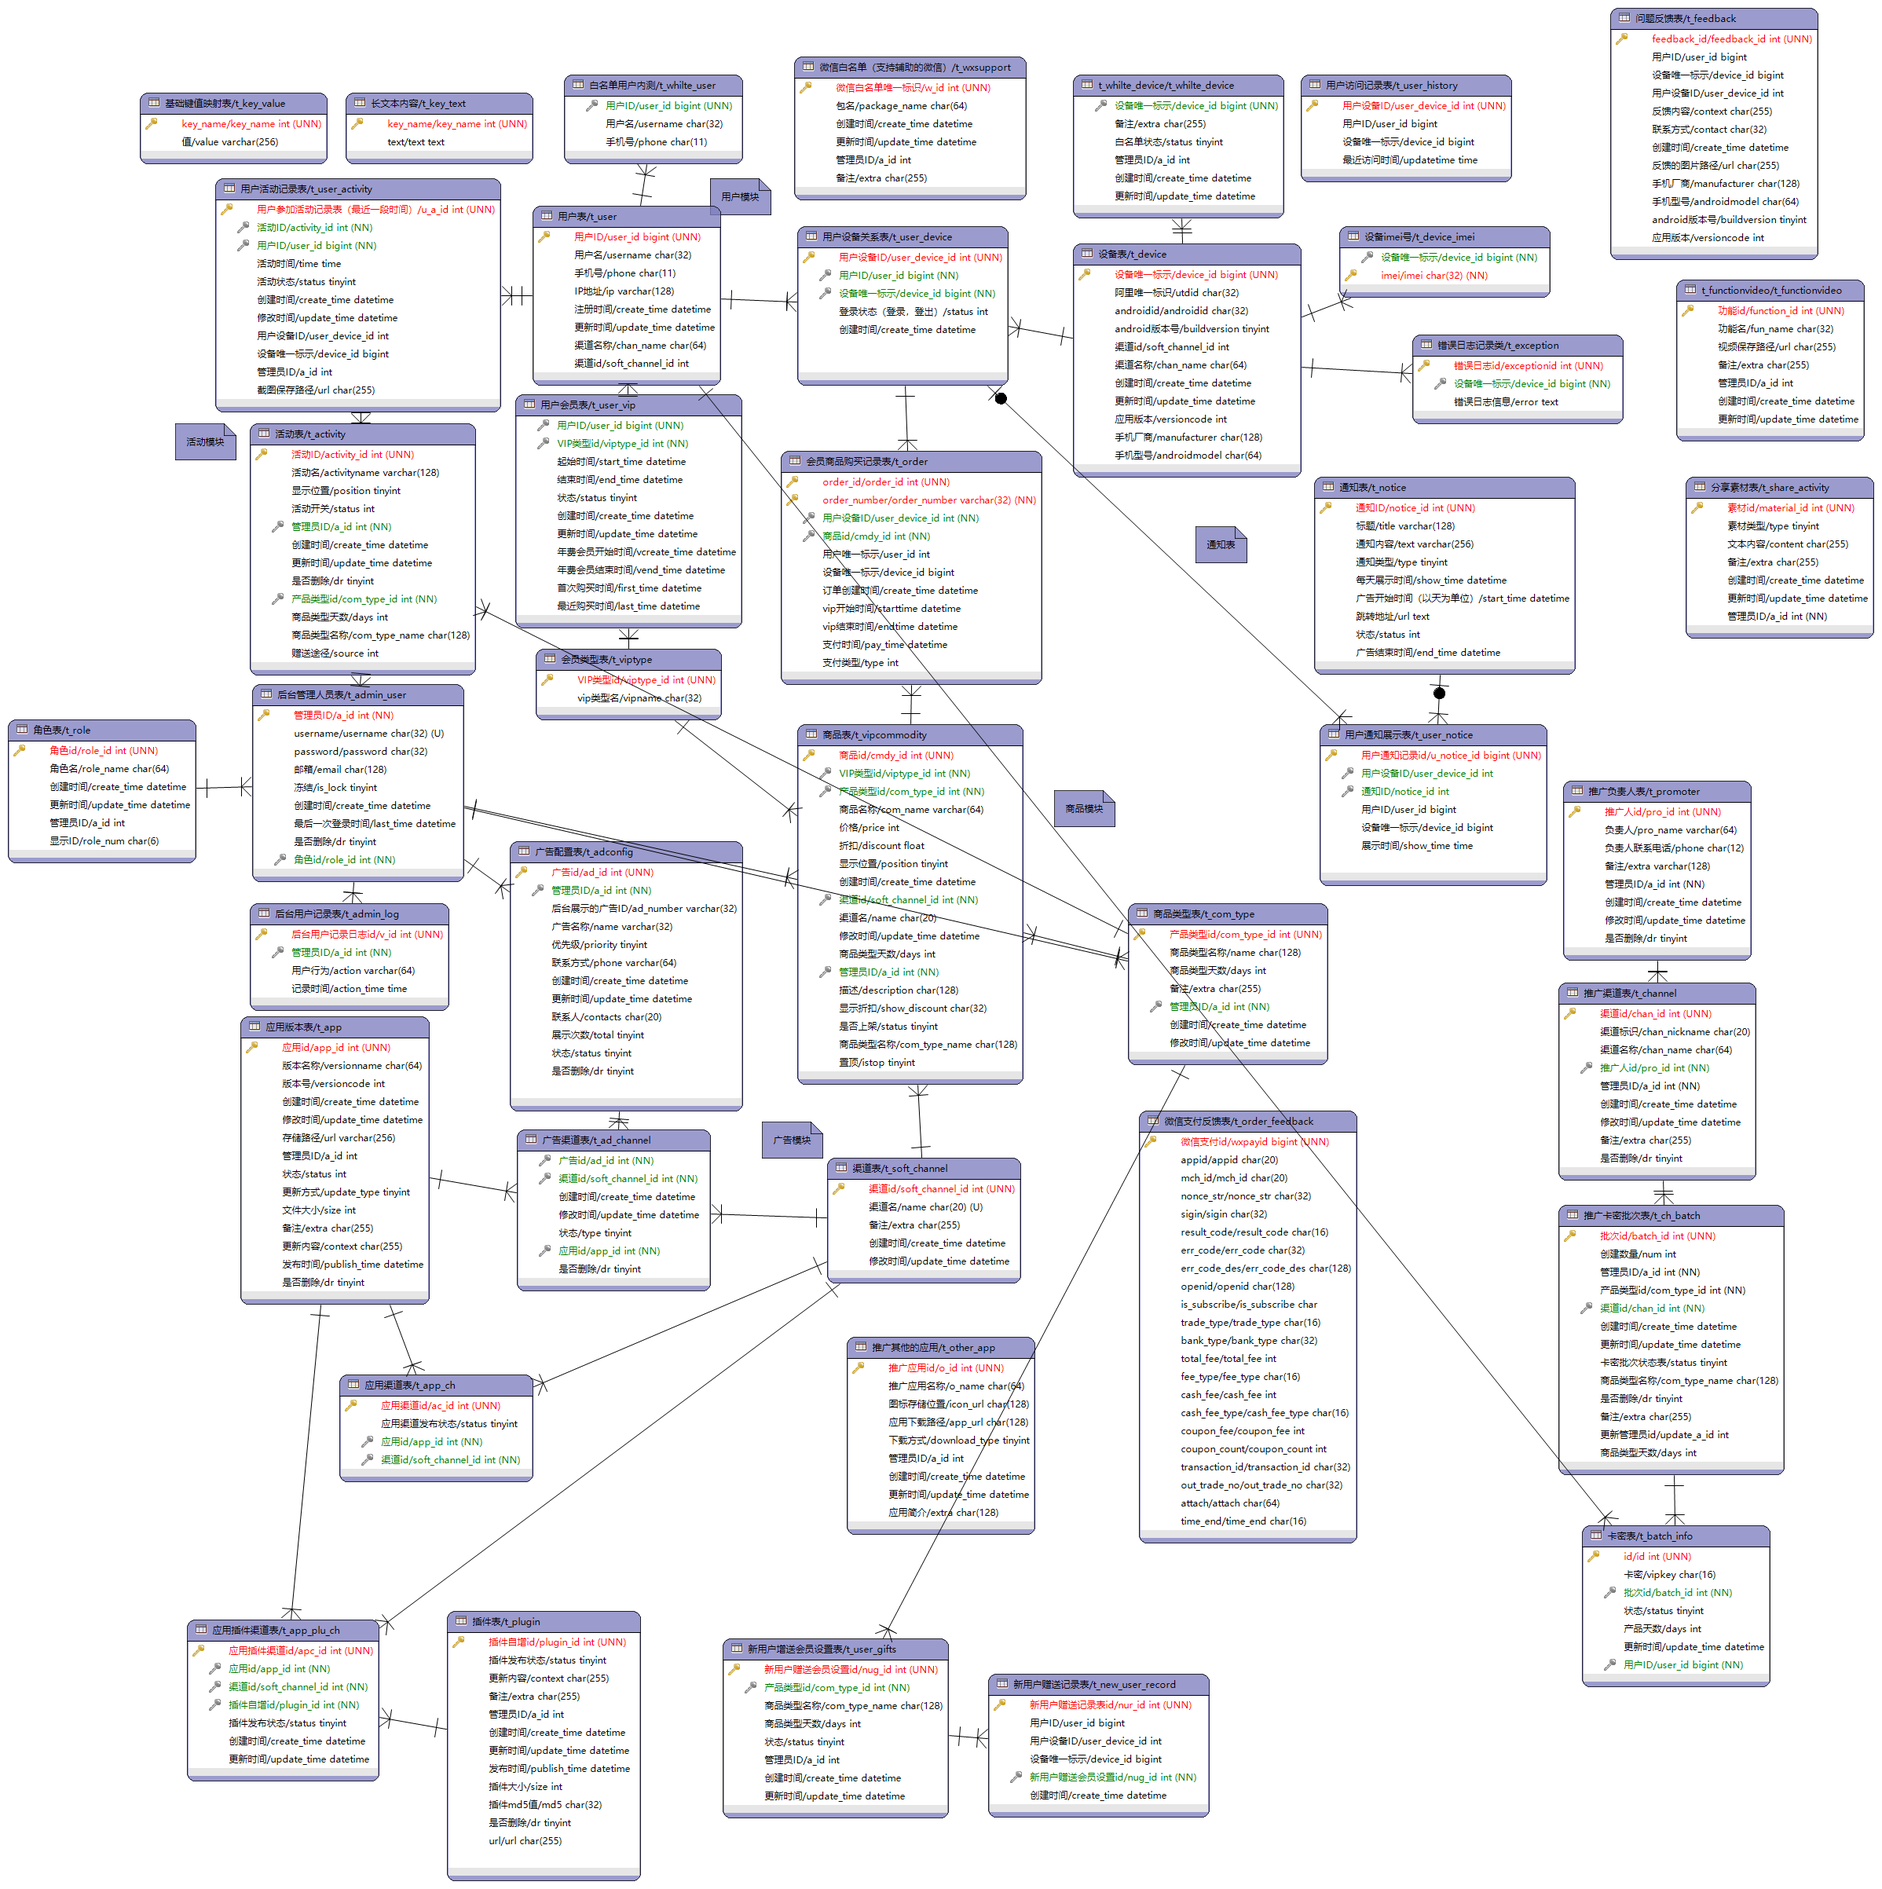
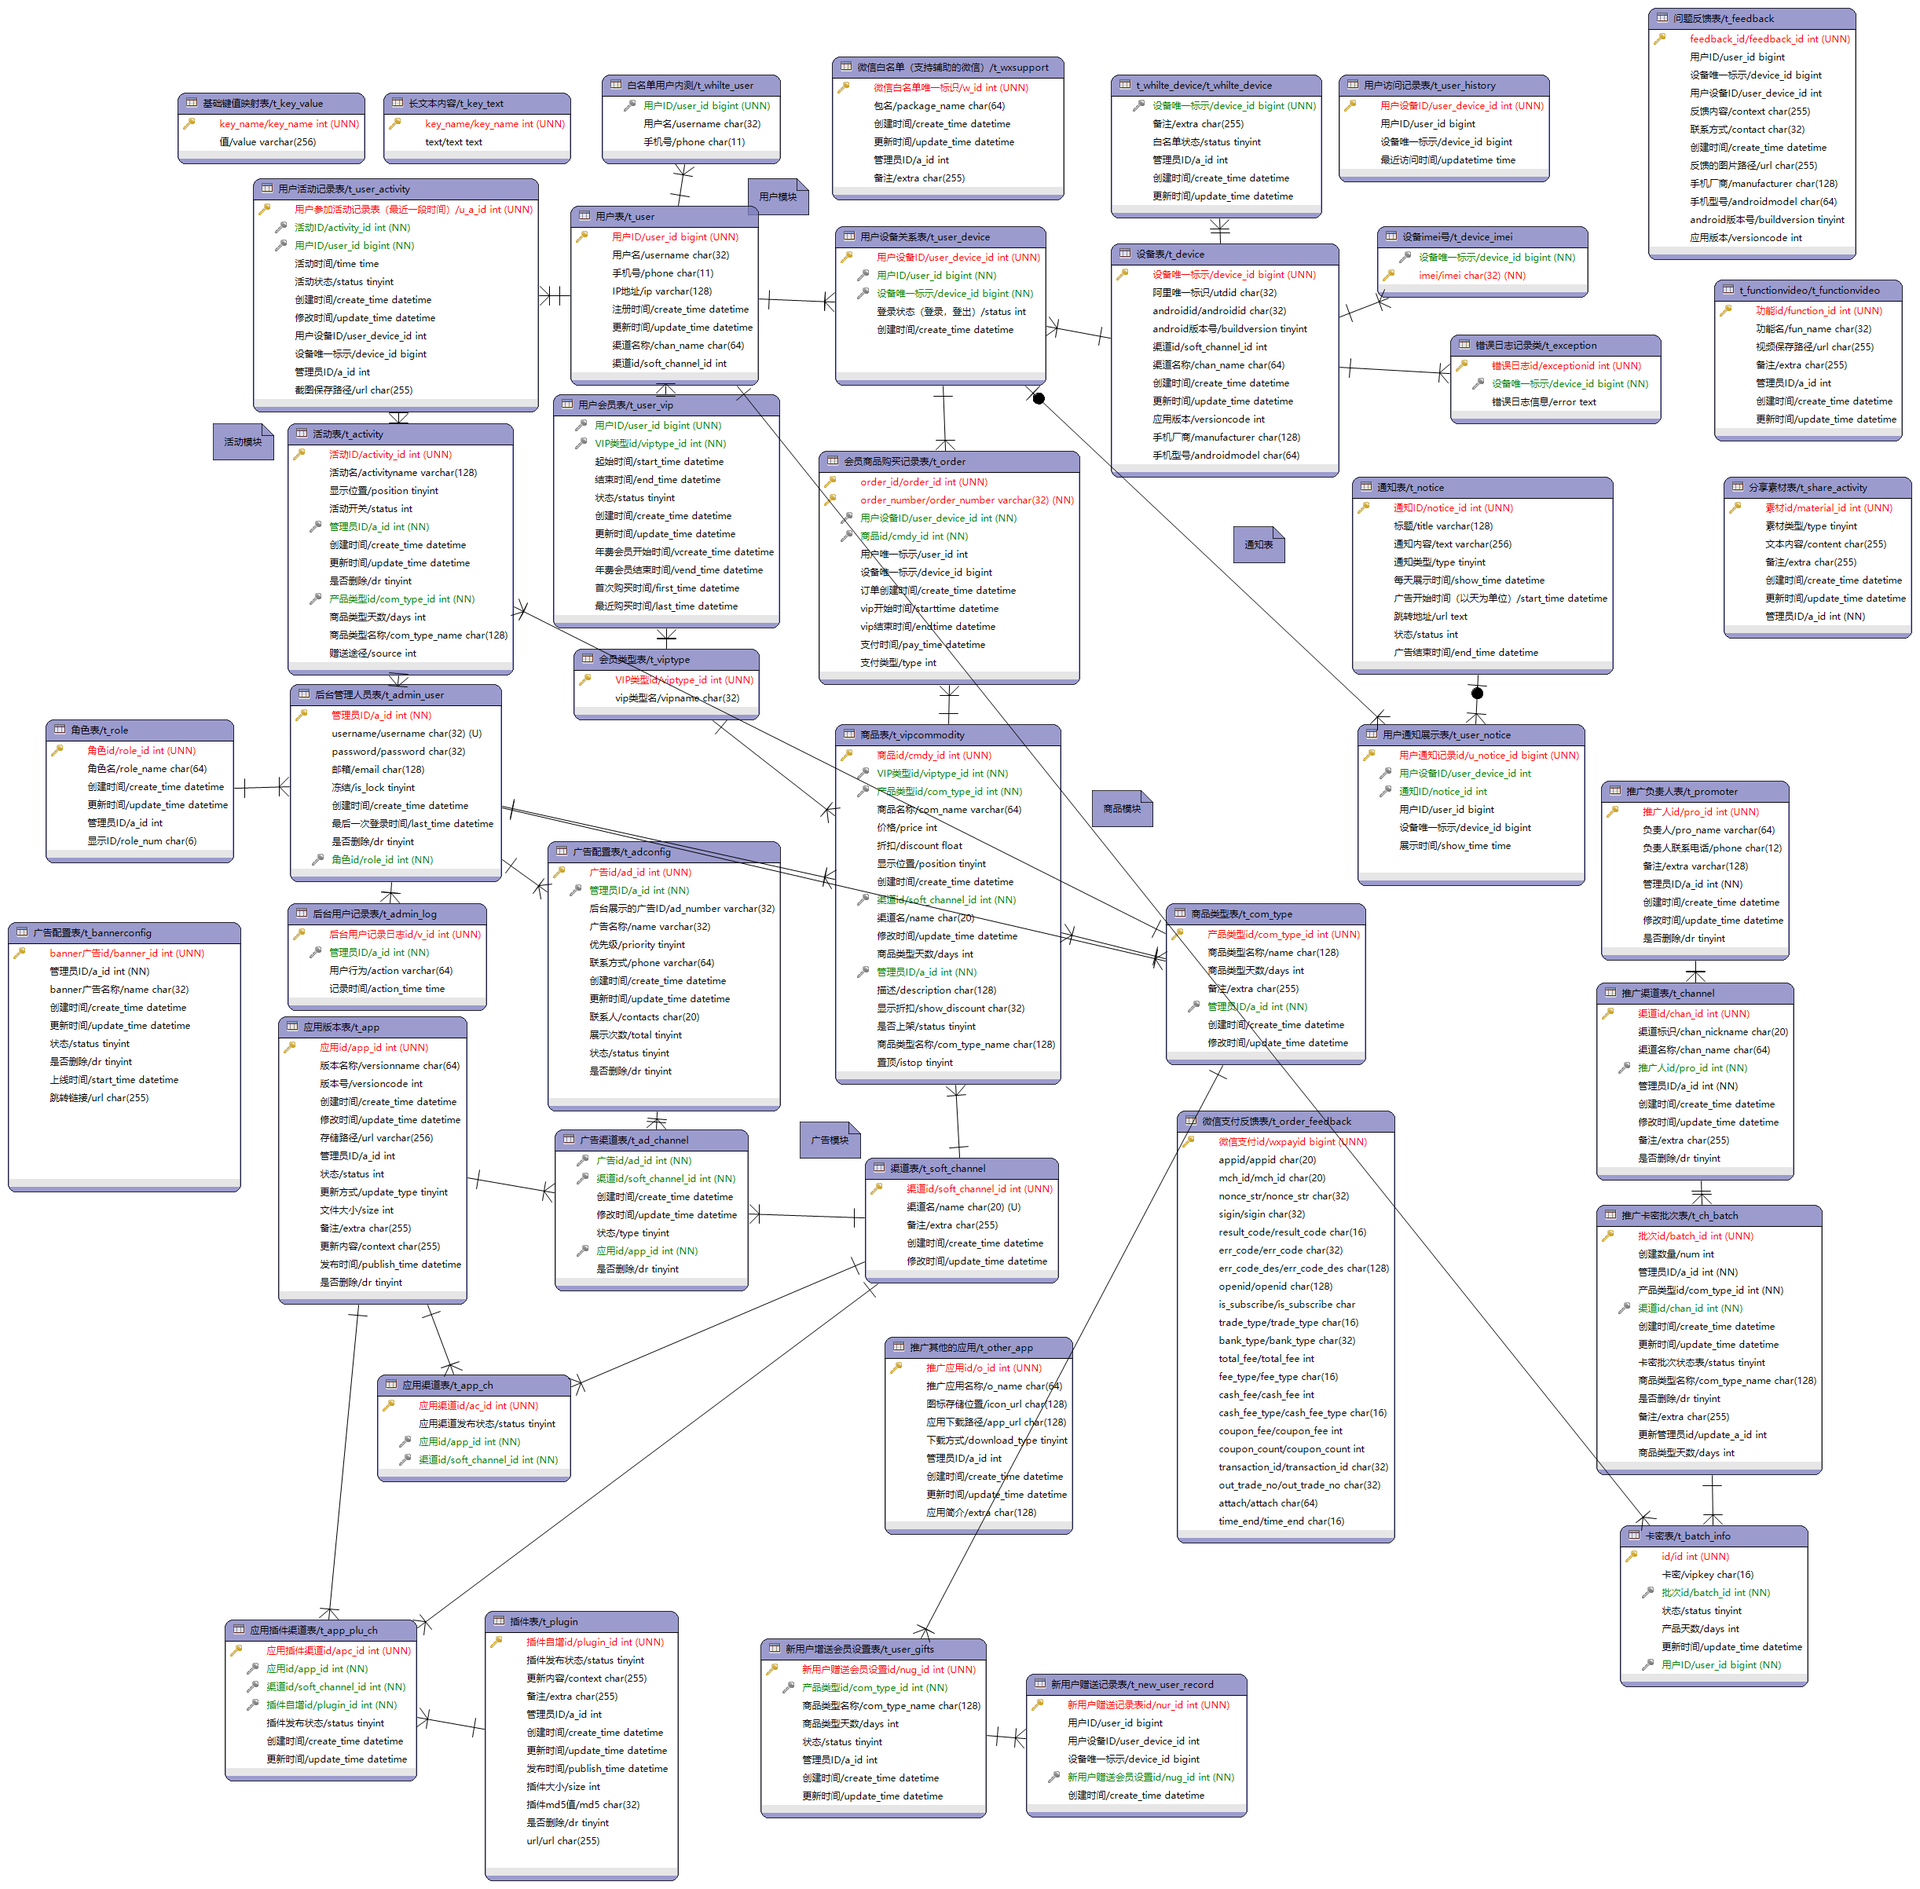
add t_bannner

diff --git a/smartweb/src/main/java/com/rpa/web/pojo/BannerConfig.java b/smartweb/src/main/java/com/rpa/web/pojo/BannerConfig.java
@@ -1,0 +1,167 @@
+package com.rpa.web.pojo;
+
+import java.io.Serializable;
+import java.util.Date;
+
+/**
+ * t_bannerconfig
+ * @author 
+ */
+public class BannerConfig implements Serializable {
+    private Integer bannerId;
+
+    private Integer aId;
+
+    private String name;
+
+    private Date createTime;
+
+    private Date updateTime;
+
+    /**
+     * 1关闭 2开启 3 删除
+     */
+    private Byte status;
+
+    /**
+     * 1 未删除  2删除
+     */
+    private Byte dr;
+
+    private Date startTime;
+
+    private String url;
+
+    private static final long serialVersionUID = 1L;
+
+    public Integer getBannerId() {
+        return bannerId;
+    }
+
+    public void setBannerId(Integer bannerId) {
+        this.bannerId = bannerId;
+    }
+
+    public Integer getaId() {
+        return aId;
+    }
+
+    public void setaId(Integer aId) {
+        this.aId = aId;
+    }
+
+    public String getName() {
+        return name;
+    }
+
+    public void setName(String name) {
+        this.name = name;
+    }
+
+    public Date getCreateTime() {
+        return createTime;
+    }
+
+    public void setCreateTime(Date createTime) {
+        this.createTime = createTime;
+    }
+
+    public Date getUpdateTime() {
+        return updateTime;
+    }
+
+    public void setUpdateTime(Date updateTime) {
+        this.updateTime = updateTime;
+    }
+
+    public Byte getStatus() {
+        return status;
+    }
+
+    public void setStatus(Byte status) {
+        this.status = status;
+    }
+
+    public Byte getDr() {
+        return dr;
+    }
+
+    public void setDr(Byte dr) {
+        this.dr = dr;
+    }
+
+    public Date getStartTime() {
+        return startTime;
+    }
+
+    public void setStartTime(Date startTime) {
+        this.startTime = startTime;
+    }
+
+    public String getUrl() {
+        return url;
+    }
+
+    public void setUrl(String url) {
+        this.url = url;
+    }
+
+    @Override
+    public boolean equals(Object that) {
+        if (this == that) {
+            return true;
+        }
+        if (that == null) {
+            return false;
+        }
+        if (getClass() != that.getClass()) {
+            return false;
+        }
+        BannerConfig other = (BannerConfig) that;
+        return (this.getBannerId() == null ? other.getBannerId() == null : this.getBannerId().equals(other.getBannerId()))
+            && (this.getaId() == null ? other.getaId() == null : this.getaId().equals(other.getaId()))
+            && (this.getName() == null ? other.getName() == null : this.getName().equals(other.getName()))
+            && (this.getCreateTime() == null ? other.getCreateTime() == null : this.getCreateTime().equals(other.getCreateTime()))
+            && (this.getUpdateTime() == null ? other.getUpdateTime() == null : this.getUpdateTime().equals(other.getUpdateTime()))
+            && (this.getStatus() == null ? other.getStatus() == null : this.getStatus().equals(other.getStatus()))
+            && (this.getDr() == null ? other.getDr() == null : this.getDr().equals(other.getDr()))
+            && (this.getStartTime() == null ? other.getStartTime() == null : this.getStartTime().equals(other.getStartTime()))
+            && (this.getUrl() == null ? other.getUrl() == null : this.getUrl().equals(other.getUrl()));
+    }
+
+    @Override
+    public int hashCode() {
+        final int prime = 31;
+        int result = 1;
+        result = prime * result + ((getBannerId() == null) ? 0 : getBannerId().hashCode());
+        result = prime * result + ((getaId() == null) ? 0 : getaId().hashCode());
+        result = prime * result + ((getName() == null) ? 0 : getName().hashCode());
+        result = prime * result + ((getCreateTime() == null) ? 0 : getCreateTime().hashCode());
+        result = prime * result + ((getUpdateTime() == null) ? 0 : getUpdateTime().hashCode());
+        result = prime * result + ((getStatus() == null) ? 0 : getStatus().hashCode());
+        result = prime * result + ((getDr() == null) ? 0 : getDr().hashCode());
+        result = prime * result + ((getStartTime() == null) ? 0 : getStartTime().hashCode());
+        result = prime * result + ((getUrl() == null) ? 0 : getUrl().hashCode());
+        return result;
+    }
+
+    @Override
+    public String toString() {
+        StringBuilder sb = new StringBuilder();
+        sb.append(getClass().getSimpleName());
+        sb.append(" [");
+        sb.append("Hash = ").append(hashCode());
+        sb.append(", bannerId=").append(bannerId);
+        sb.append(", aId=").append(aId);
+        sb.append(", name=").append(name);
+        sb.append(", createTime=").append(createTime);
+        sb.append(", updateTime=").append(updateTime);
+        sb.append(", status=").append(status);
+        sb.append(", dr=").append(dr);
+        sb.append(", startTime=").append(startTime);
+        sb.append(", url=").append(url);
+        sb.append(", serialVersionUID=").append(serialVersionUID);
+        sb.append("]");
+        return sb.toString();
+    }
+}

diff --git a/smartweb/src/main/java/com/rpa/web/mapper/BannerConfigMapper.java b/smartweb/src/main/java/com/rpa/web/mapper/BannerConfigMapper.java
@@ -1,0 +1,11 @@
+package com.rpa.web.mapper;
+
+import com.rpa.web.pojo.BannerConfig;
+import org.apache.ibatis.annotations.Mapper;
+
+/**
+ * BannerConfigMapper继承基类
+ */
+@Mapper
+public interface BannerConfigMapper extends BaseDAO<BannerConfig, Integer> {
+}
